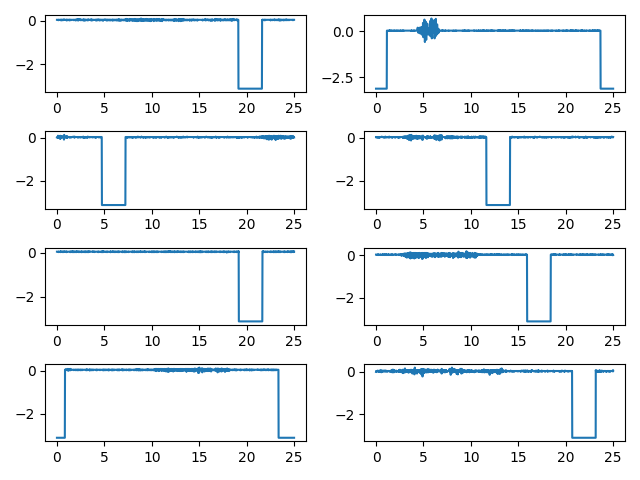
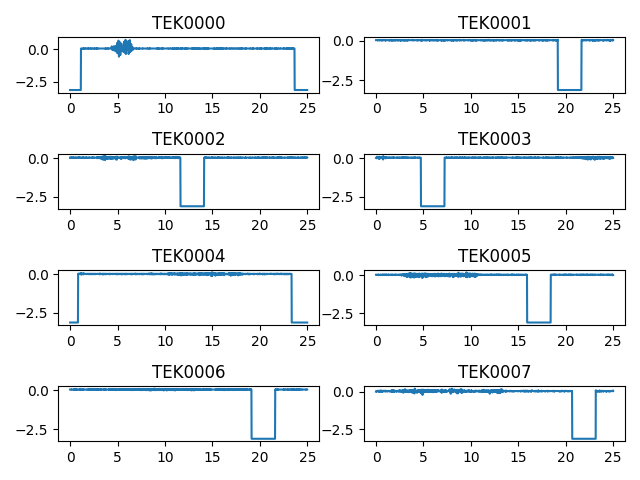
Add subplot titles and sort by title

diff --git a/lickport_array/lickport_array.py b/lickport_array/lickport_array.py
@@ -25,20 +25,23 @@ class LickportArray():
     def __init__(self,*args,**kwargs):
         base_path = pathlib.Path(__file__).resolve().parent
         data_path = base_path.joinpath('data')
-        self.runs = []
+        self.runs = {}
         for data_file in data_path.iterdir():
+            data_file_stem = data_file.stem
             run = numpy.genfromtxt(data_file,delimiter=',')
             run = run[:,[3,4]]
-            self.runs.append(run)
+            self.runs[data_file_stem] = run
+        self.runs = {k: v for k, v in sorted(self.runs.items(), key=lambda item: item[0])}
         self.output_path = pathlib.Path.home() / 'output'
         self.output_path.mkdir(parents=True,exist_ok=True)
 
     def plot(self):
         subplot_index = 1
-        for run in self.runs:
+        for name, run in self.runs.items():
             plt.subplot(4,2,subplot_index)
             subplot_index += 1
             plt.plot(run[:,0],run[:,1])
+            plt.title(name)
         plt.tight_layout()
         plot_path = self.output_path / 'plots.png'
         plt.savefig(plot_path)
